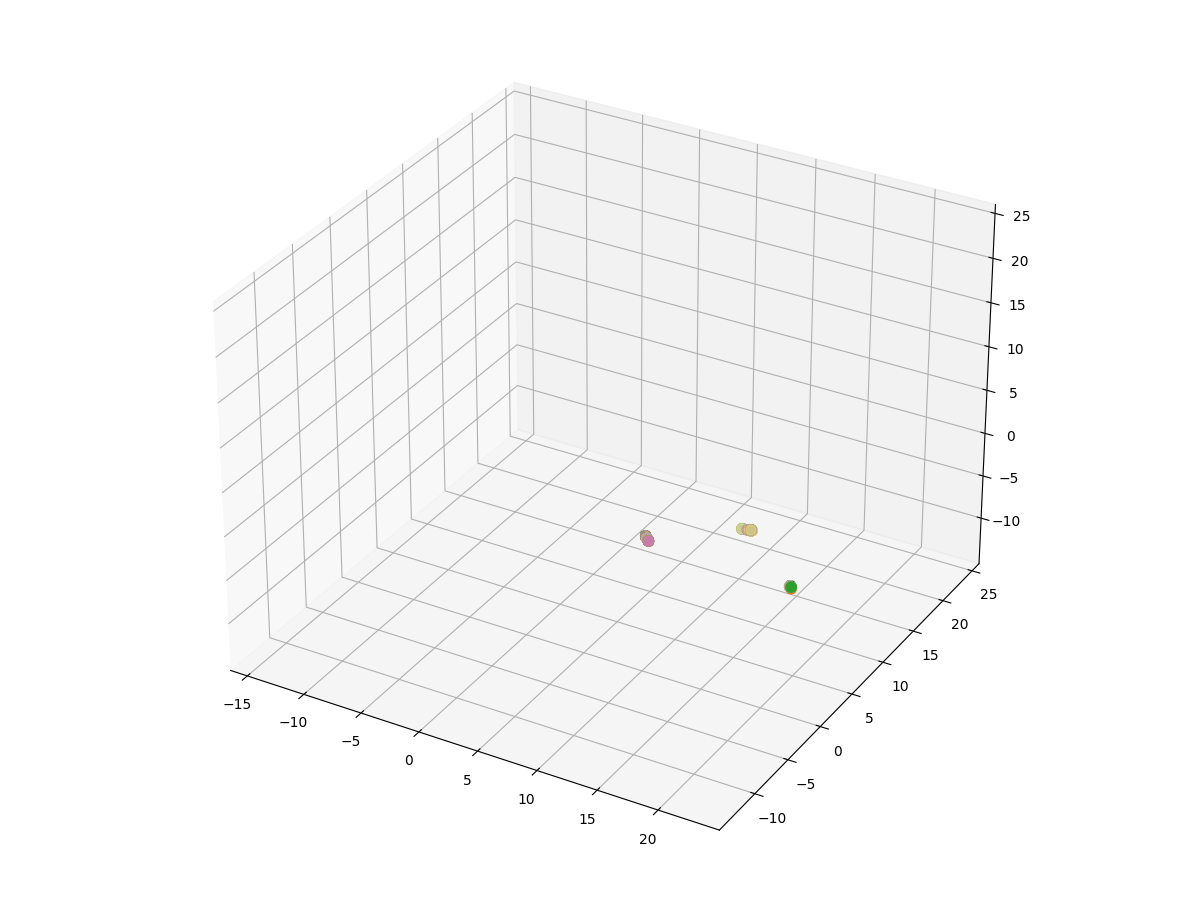
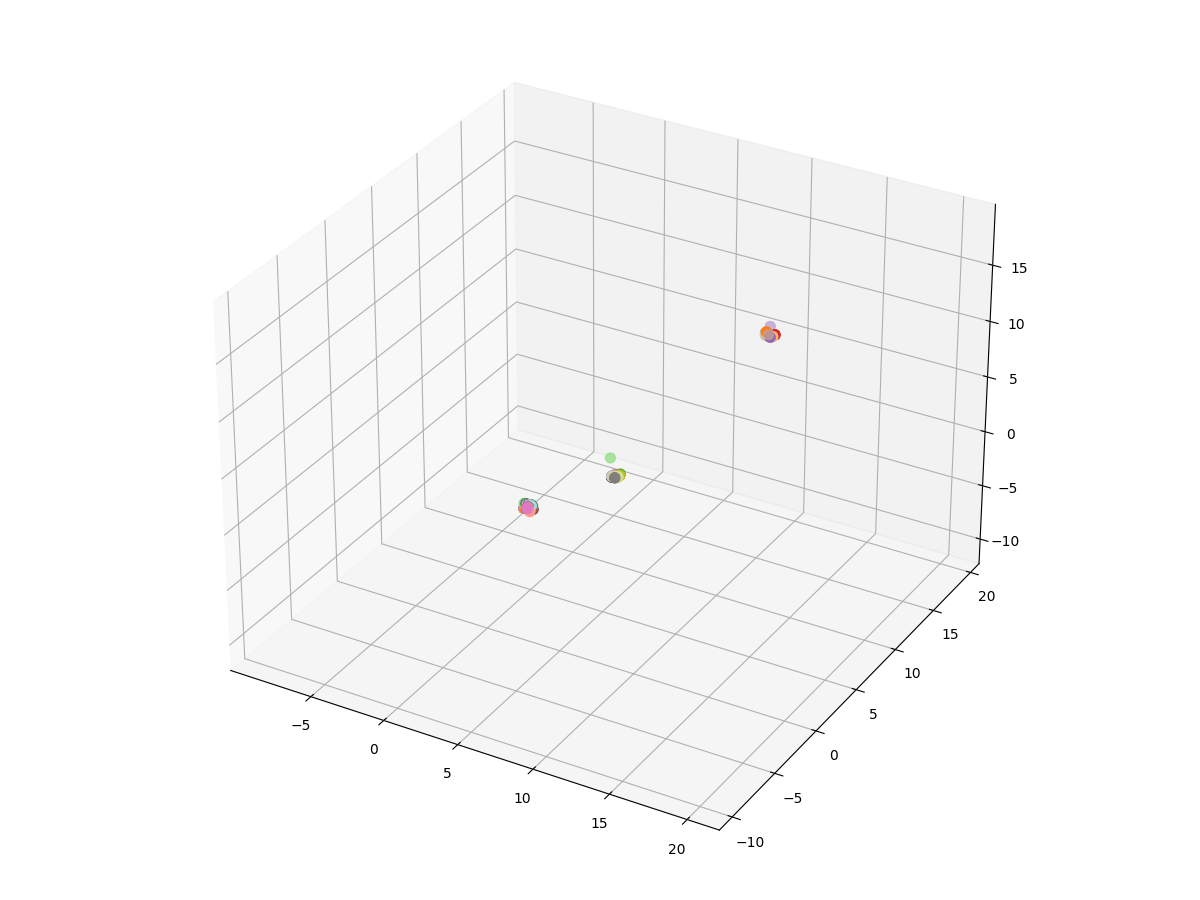
dec

diff --git a/main.py b/main.py
@@ -56,7 +56,7 @@ data.x = F.normalize(data.x, p=2, dim=-1)
 
 input_dim = data.x.shape[1]
 model = GAE(gcn.GCNEncoder(input_dim, 128))
-optimizer = torch.optim.Adam(model.parameters(), lr=0.01) # lr par défaut
+optimizer = torch.optim.Adam(model.parameters(), lr=0.01) # lr pas opti
 
 
 
@@ -76,7 +76,7 @@ limits = [(mid[i] - max_range, mid[i] + max_range) for i in range(3)]
 epochs = 100
 for epoch in range(1, epochs + 1):
     loss = gcn.train_one_epoch(model, optimizer, data)
-    if epoch % 5 == 0:
+    if epoch % 1 == 0:
         model.eval()
         z = model.encode(data.x, data.edge_index).detach().cpu().numpy()
         z_3d = reducer.transform(z)
@@ -98,18 +98,13 @@ print(z.shape)
 
 #############################################################################
 
-#visualize.plot_tsne(z,painters)
-
-#############################################################################
 
 
-
-
-n_clusters=7
+n_clusters=10
 
 
 kmeans = KMeans(n_clusters=n_clusters, random_state=0) # changer de méthode
 labels = kmeans.fit_predict(z)
 
 
-#visualize.plot_all_clusters_images(file_paths_subset, labels, n_clusters=n_clusters, n_images=8, img_size=(2, 1))
+visualize.plot_all_clusters_images(file_paths_subset, labels, n_clusters=n_clusters, n_images=8, img_size=(2, 1))

diff --git a/dec/dec.py b/dec/dec.py
@@ -1,0 +1,42 @@
+import sys
+import os
+
+current_dir = os.path.dirname(os.path.abspath(__file__))
+parent_dir = os.path.abspath(os.path.join(current_dir, '..'))
+sys.path.insert(0, parent_dir)
+
+import resnet
+
+
+
+import cv2
+import numpy as np
+import shutil
+import random
+from google import protobuf
+from xml.dom import minidom
+import matplotlib.pyplot as plt 
+from scipy.optimize import linear_sum_assignment
+
+from scipy.spatial.distance import cdist
+
+
+
+class TMM(object):
+  
+    def __init__(self, n_clusters=1, alpha=1):
+        self.n_clusters = n_clusters
+        self.tol = 1e-5
+        self.alpha = float(alpha)
+
+    def extract_features(image_path, model=None):
+        return resnet.extract_features(image_path)   # modifier pour choisir le model si besoin
+
+    def cluster_acc(Y_pred, Y):
+        assert Y_pred.size == Y.size
+        D = max(Y_pred.max(), Y.max())+1
+        w = np.zeros((D,D), dtype=np.int64)
+        for i in range(Y_pred.size):
+            w[Y_pred[i], Y[i]] += 1
+        ind = linear_sum_assignment(w.max() - w)
+        return sum([w[i,j] for i,j in ind])*1.0/Y_pred.size, w

diff --git a/dec/main.py b/dec/main.py
@@ -1,0 +1,2 @@
+import numpy as np
+import matplotlib.pyplot as plt
